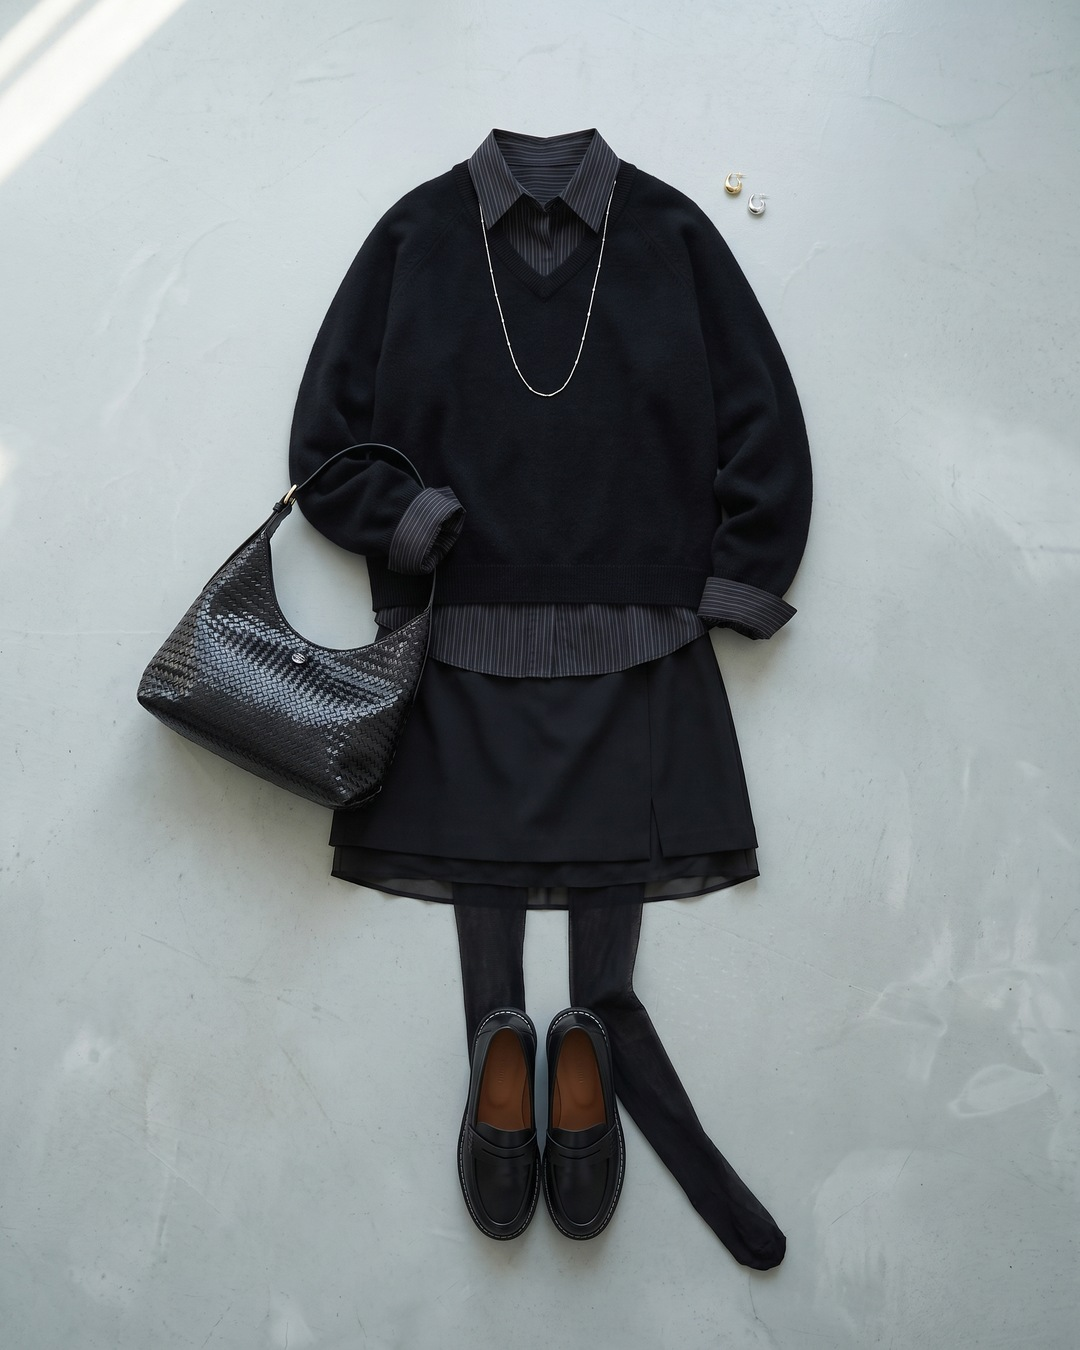
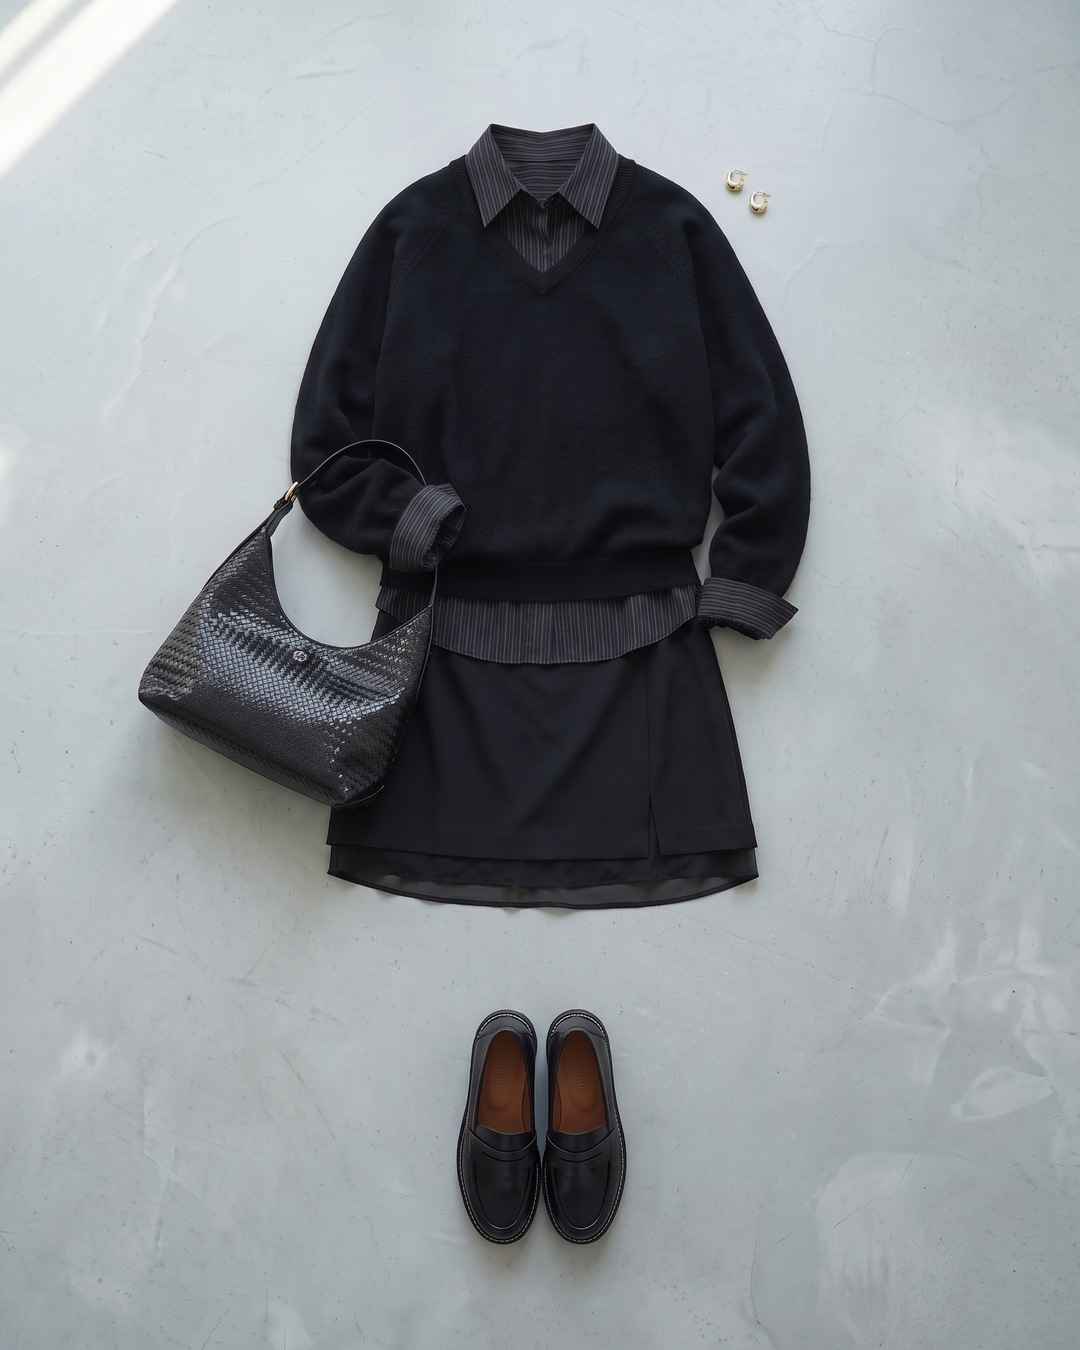
고쳐 그리기 지시문: 구도·비율 변경은 실제로 옮기게 (배치 고정 문장 완화) + 7벌 다시 고쳐 그리기 [daily] [plan:samples/women/plan_2026-10-15_edit.yaml]
Claude-Session: https://claude.ai/code/session_01V9Mufw123iizm1Kg97th4a

diff --git a/prompts/outfit_edit.md b/prompts/outfit_edit.md
@@ -6,9 +6,10 @@
 Edit the first attached image, a photorealistic top-down flat lay photograph of an outfit.
 Change only this: $request
 
-Keep everything else exactly as it is: the same items, their colors, patterns, details and positions,
-the layout and spacing, the floor, the light and shadows, the camera angle and the framing.
-Do not add, remove or move any other item.
+Make the change fully and clearly, even if it means moving or redrawing whole items: a change to the
+layout or proportions really moves the items to their new places. Keep everything the change does not
+touch exactly as it is: every item's color, pattern, fabric and details, the floor, the light and
+shadows and the camera angle. Do not add or remove any item unless the change asks for it.
 
 The other attached images are reference sheets of the exact items, in this order. Use them only to keep
 each item true to the real product while making the change:
